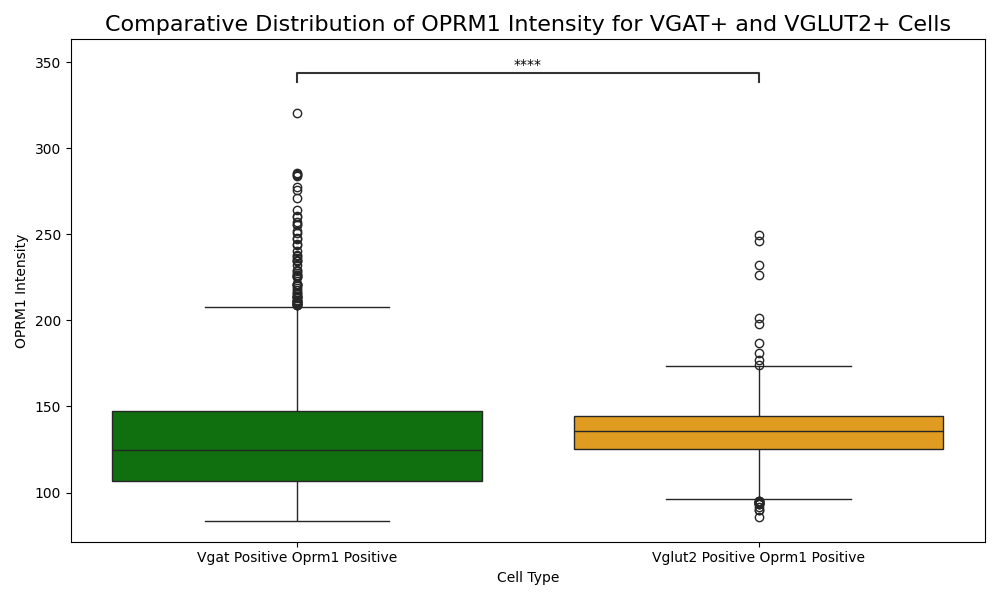
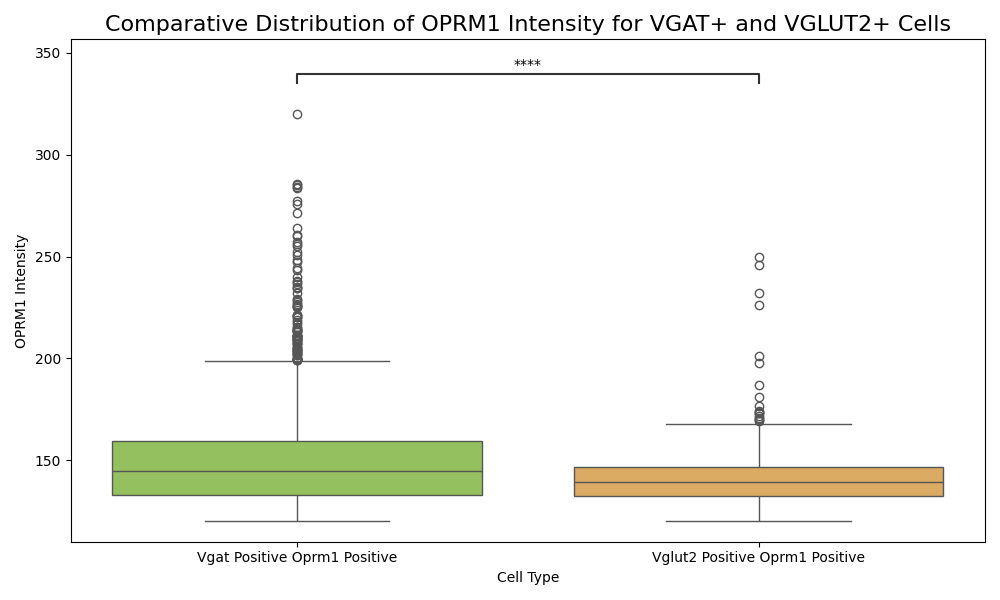
thresholded and trimmed data for comparison plots

diff --git a/ImageAnalysis/VentralPallidum_Pipeline/comparison_intensity_vgatvglut2oprm1_plots.py b/ImageAnalysis/VentralPallidum_Pipeline/comparison_intensity_vgatvglut2oprm1_plots.py
@@ -38,14 +38,26 @@ classifications = {
     "vglut2_positive_oprm1_positive": ["vglut2_Pos: oprm1_Pos"],
 }
 colors = {
-    "vgat_positive_oprm1_positive": "green",
-    "vglut2_positive_oprm1_positive": "orange",
+    "vgat_positive_oprm1_positive": "#97d04f",
+    "vglut2_positive_oprm1_positive": "#efad4f",  # Shade of orange
 }
 
 # Initialize a dictionary to collect data for each classification
 data = {key: [] for key in classifications.keys()}
 
-# Helper function to process files and extract relevant data
+
+# Helper function to detect and remove outliers using the IQR method
+def remove_outliers(df, column):
+    if df.empty:
+        return df
+    Q1 = df[column].quantile(0.25)  # First quartile (25th percentile)
+    Q3 = df[column].quantile(0.75)  # Third quartile (75th percentile)
+    IQR = Q3 - Q1  # Interquartile range
+    lower_bound = Q1 - 1.5 * IQR
+    upper_bound = Q3 + 1.5 * IQR
+    return df[(df[column] >= lower_bound) & (df[column] <= upper_bound)]
+
+# Updated helper function to process files and extract relevant data
 def collect_data(paths, classification_key, labels):
     for file in os.listdir(paths["raw_detection"]):
         if file.endswith(".txt"):
@@ -54,7 +66,10 @@ def collect_data(paths, classification_key, labels):
                 if "Classification" not in det_data.columns:
                     print(f"Skipping file {file}: 'Classification' column is missing.")
                     continue
+                # Filter by classification
                 cell_data = det_data[det_data["Classification"].isin(labels)]
+                
+                # Append filtered data
                 data[classification_key].append(cell_data[[
                     "AF568: Cell: Mean", 
                     "Subcellular: Channel 2: Num spots estimated"
@@ -64,96 +79,116 @@ def collect_data(paths, classification_key, labels):
             except Exception as e:
                 print(f"Error processing {file}: {e}")
 
-# Collect data for each classification
-collect_data(paths["vgat"], "vgat_positive_oprm1_positive", classifications["vgat_positive_oprm1_positive"])
-collect_data(paths["vglut2"], "vglut2_positive_oprm1_positive", classifications["vglut2_positive_oprm1_positive"])
-
-# Combine data for each classification into a single DataFrame
-for key in data:
-    if data[key]:
-        data[key] = pd.concat(data[key], ignore_index=True)
+# Collect original data (no thresholding)
+original_data = {key: [] for key in classifications.keys()}
+for group, labels in classifications.items():
+    if "vgat" in group:
+        collect_data(paths["vgat"], group, labels)
+    elif "vglut2" in group:
+        collect_data(paths["vglut2"], group, labels)
+    if data[group]:
+        original_data[group] = pd.concat(data[group], ignore_index=True)
     else:
-        data[key] = pd.DataFrame(columns=["AF568: Cell: Mean", "Subcellular: Channel 2: Num spots estimated"])
+        original_data[group] = pd.DataFrame(columns=["AF568: Cell: Mean", "Subcellular: Channel 2: Num spots estimated"])
 
-# Perform statistical tests between VGAT+ and VGLUT2+ groups
-vgat_data = data["vgat_positive_oprm1_positive"]
-vglut2_data = data["vglut2_positive_oprm1_positive"]
+# Apply threshold and collect trimmed data
+trimmed_data = {}
+for key, df in original_data.items():
+    filtered_df = df[df["AF568: Cell: Mean"] > 120]  # Apply intensity threshold
+    trimmed_data[key] = remove_outliers(filtered_df, "AF568: Cell: Mean")
 
-stat_results = {}
+# Function to compare plots before and after trimming
+def compare_plots(original_df, trimmed_df, column, title, color):
+    plt.figure(figsize=(16, 8))
+    
+    # Original data distribution (starting from 0)
+    plt.subplot(2, 2, 1)
+    sns.histplot(original_df[column], kde=True, bins=30, color=color, alpha=0.7)
+    plt.title(f"{title} (Original Data Distribution)")
+    plt.xlabel("OPRM1 Intensity")  # Updated label
+    plt.xlim(0, None)  # Start x-axis from 0
+    
+    plt.subplot(2, 2, 2)
+    sns.boxplot(x=original_df[column], color=color)
+    plt.title(f"{title} (Original Box Plot)")
+    plt.xlabel("OPRM1 Intensity")  # Updated label
+    plt.xlim(0, None)  # Start x-axis from 0
 
-if not vgat_data.empty and not vglut2_data.empty:
-    vgat_intensity = vgat_data["AF568: Cell: Mean"]
-    vglut2_intensity = vglut2_data["AF568: Cell: Mean"]
+    # Trimmed data distribution (starting from 0)
+    plt.subplot(2, 2, 3)
+    sns.histplot(trimmed_df[column], kde=True, bins=30, color=color, alpha=0.7)
+    plt.title(f"{title} (Trimmed Data Distribution)")
+    plt.xlabel("OPRM1 Intensity")  # Updated label
+    plt.xlim(115, None)  
+
+    plt.subplot(2, 2, 4)
+    sns.boxplot(x=trimmed_df[column], color=color)
+    plt.title(f"{title} (Trimmed Box Plot)")
+    plt.xlabel("OPRM1 Intensity")  # Updated label
+    plt.xlim(115, None)  
+
+    plt.tight_layout()
+    plt.savefig(os.path.join(plots_dir, f"{title.replace(' ', '_')}_comparison.png"))
+    plt.close()
+
+# Generate comparison plots for VGAT and VGLUT2
+compare_plots(original_data["vgat_positive_oprm1_positive"], trimmed_data["vgat_positive_oprm1_positive"], 
+              "AF568: Cell: Mean", "VGAT+ OPRM1+", colors["vgat_positive_oprm1_positive"])
+compare_plots(original_data["vglut2_positive_oprm1_positive"], trimmed_data["vglut2_positive_oprm1_positive"], 
+              "AF568: Cell: Mean", "VGLUT2+ OPRM1+", colors["vglut2_positive_oprm1_positive"])
+
+# Perform statistical tests between VGAT+ and VGLUT2+ groups for both original and trimmed data
+stat_results = {"original": {}, "trimmed": {}}
+
+# Statistical tests for original data
+if not original_data["vgat_positive_oprm1_positive"].empty and not original_data["vglut2_positive_oprm1_positive"].empty:
+    vgat_original = original_data["vgat_positive_oprm1_positive"]["AF568: Cell: Mean"]
+    vglut2_original = original_data["vglut2_positive_oprm1_positive"]["AF568: Cell: Mean"]
+
+    # Mann-Whitney U Test (original)
+    u_stat, u_p_value = mannwhitneyu(vgat_original, vglut2_original, alternative='two-sided')
+    stat_results["original"]["Mann-Whitney"] = (u_stat, u_p_value)
+
+    # Kolmogorov-Smirnov Test (original)
+    ks_stat, ks_p_value = ks_2samp(vgat_original, vglut2_original)
+    stat_results["original"]["Kolmogorov-Smirnov"] = (ks_stat, ks_p_value)
+
+# Statistical tests for trimmed data
+if not trimmed_data["vgat_positive_oprm1_positive"].empty and not trimmed_data["vglut2_positive_oprm1_positive"].empty:
+    vgat_trimmed = trimmed_data["vgat_positive_oprm1_positive"]["AF568: Cell: Mean"]
+    vglut2_trimmed = trimmed_data["vglut2_positive_oprm1_positive"]["AF568: Cell: Mean"]
 
     # Mann-Whitney U Test
-    u_stat, u_p_value = mannwhitneyu(vgat_intensity, vglut2_intensity, alternative='two-sided')
-    stat_results["Mann-Whitney"] = (u_stat, u_p_value)
+    u_stat, u_p_value = mannwhitneyu(vgat_trimmed, vglut2_trimmed, alternative='two-sided')
+    stat_results["trimmed"]["Mann-Whitney"] = (u_stat, u_p_value)
 
     # Kolmogorov-Smirnov Test
-    ks_stat, ks_p_value = ks_2samp(vgat_intensity, vglut2_intensity)
-    stat_results["Kolmogorov-Smirnov"] = (ks_stat, ks_p_value)
+    ks_stat, ks_p_value = ks_2samp(vgat_trimmed, vglut2_trimmed)
+    stat_results["trimmed"]["Kolmogorov-Smirnov"] = (ks_stat, ks_p_value)
 
-    # Save results to a text file
-    stats_results_path = os.path.join(plots_dir, "statistical_tests_results.txt")
-    with open(stats_results_path, "w") as f:
-        f.write("Statistical Test Results:\n")
-        for test_name, (stat, p_val) in stat_results.items():
-            f.write(f"{test_name}: Statistic = {stat}, p-value = {p_val}\n")
-    print(f"Statistical test results saved to {stats_results_path}")
+# Save results to a text file
+stats_results_path = os.path.join(plots_dir, "statistical_tests_results.txt")
+with open(stats_results_path, "w") as f:
+    f.write("Statistical Test Results (Original Data):\n")
+    for test_name, (stat, p_val) in stat_results["original"].items():
+        f.write(f"{test_name}: Statistic = {stat}, p-value = {p_val}\n")
+    f.write("\nStatistical Test Results (Trimmed Data):\n")
+    for test_name, (stat, p_val) in stat_results["trimmed"].items():
+        f.write(f"{test_name}: Statistic = {stat}, p-value = {p_val}\n")
 
-# KDE Plot
-comparison_data = []
-for cell_type, df in data.items():
-    if not df.empty:
-        comparison_data.extend([{"Cell Type": cell_type.replace("_", " ").title(), "Intensity": val} for val in df["AF568: Cell: Mean"]])
+# Generate descriptive statistics for original and trimmed data
+descriptive_stats_path = os.path.join(plots_dir, "descriptive_statistics.txt")
+with open(descriptive_stats_path, "w") as f:
+    f.write("Descriptive Statistics for Original Data:\n")
+    for key, df in original_data.items():
+        f.write(f"\n{key}:\n")
+        f.write(df.describe().to_string())
+        f.write("\n")
+    f.write("\nDescriptive Statistics for Trimmed Data:\n")
+    for key, df in trimmed_data.items():
+        f.write(f"\n{key}:\n")
+        f.write(df.describe().to_string())
+        f.write("\n")
 
-if comparison_data:
-    comparison_df = pd.DataFrame(comparison_data)
-
-    plt.figure(figsize=(10, 6))
-    for cell_type, df in data.items():
-        if not df.empty:
-            sns.kdeplot(df["AF568: Cell: Mean"], label=cell_type.replace("_", ":").title(), color=colors[cell_type], fill=True, alpha=0.5)
-
-    plt.title("Density Distribution of OPRM1 Intensity for VGAT+:OPRM1+ and VGLUT2+:OPRM1+ Cells", fontsize=12)
-    plt.xlabel("OPRM1 Intensity")
-    plt.ylabel("Density")
-    plt.legend(title="Cell Type")
-    plt.tight_layout()
-
-    kde_path = os.path.join(plots_dir, "KDE_Comparison_VGAT_vs_VGLUT2.png")
-    plt.savefig(kde_path)
-    plt.close()
-    print(f"KDE comparison plot saved to {kde_path}.")
-
-#boxplot
-# Define a formatted palette that matches the DataFrame's "Cell Type" column
-formatted_colors = {
-    "Vgat Positive Oprm1 Positive": "green",
-    "Vglut2 Positive Oprm1 Positive": "orange",
-}
-
-# Box Plot with Statistical Annotation
-plt.figure(figsize=(10, 6))
-ax = sns.boxplot(
-    data=comparison_df,
-    x="Cell Type",
-    y="Intensity",
-    palette=formatted_colors  # Use the corrected palette
-)
-
-# Annotator setup
-pairs = [("Vgat Positive Oprm1 Positive", "Vglut2 Positive Oprm1 Positive")]
-annotator = Annotator(ax, pairs, data=comparison_df, x="Cell Type", y="Intensity")
-annotator.set_pvalues([u_p_value])  # Use the Mann-Whitney U-test p-value
-annotator.annotate()
-
-plt.title("Comparative Distribution of OPRM1 Intensity for VGAT+ and VGLUT2+ Cells", fontsize=16)
-plt.xlabel("Cell Type")
-plt.ylabel("OPRM1 Intensity")
-plt.tight_layout()
-
-box_plot_path = os.path.join(plots_dir, "Box_Comparison_VGAT_vs_VGLUT2_with_annotations.png")
-plt.savefig(box_plot_path)
-plt.close()
-print(f"Box plot with statistical annotations saved to {box_plot_path}.")
+print(f"Descriptive statistics saved to {descriptive_stats_path}")
+print(f"Statistical test results saved to {stats_results_path}")
